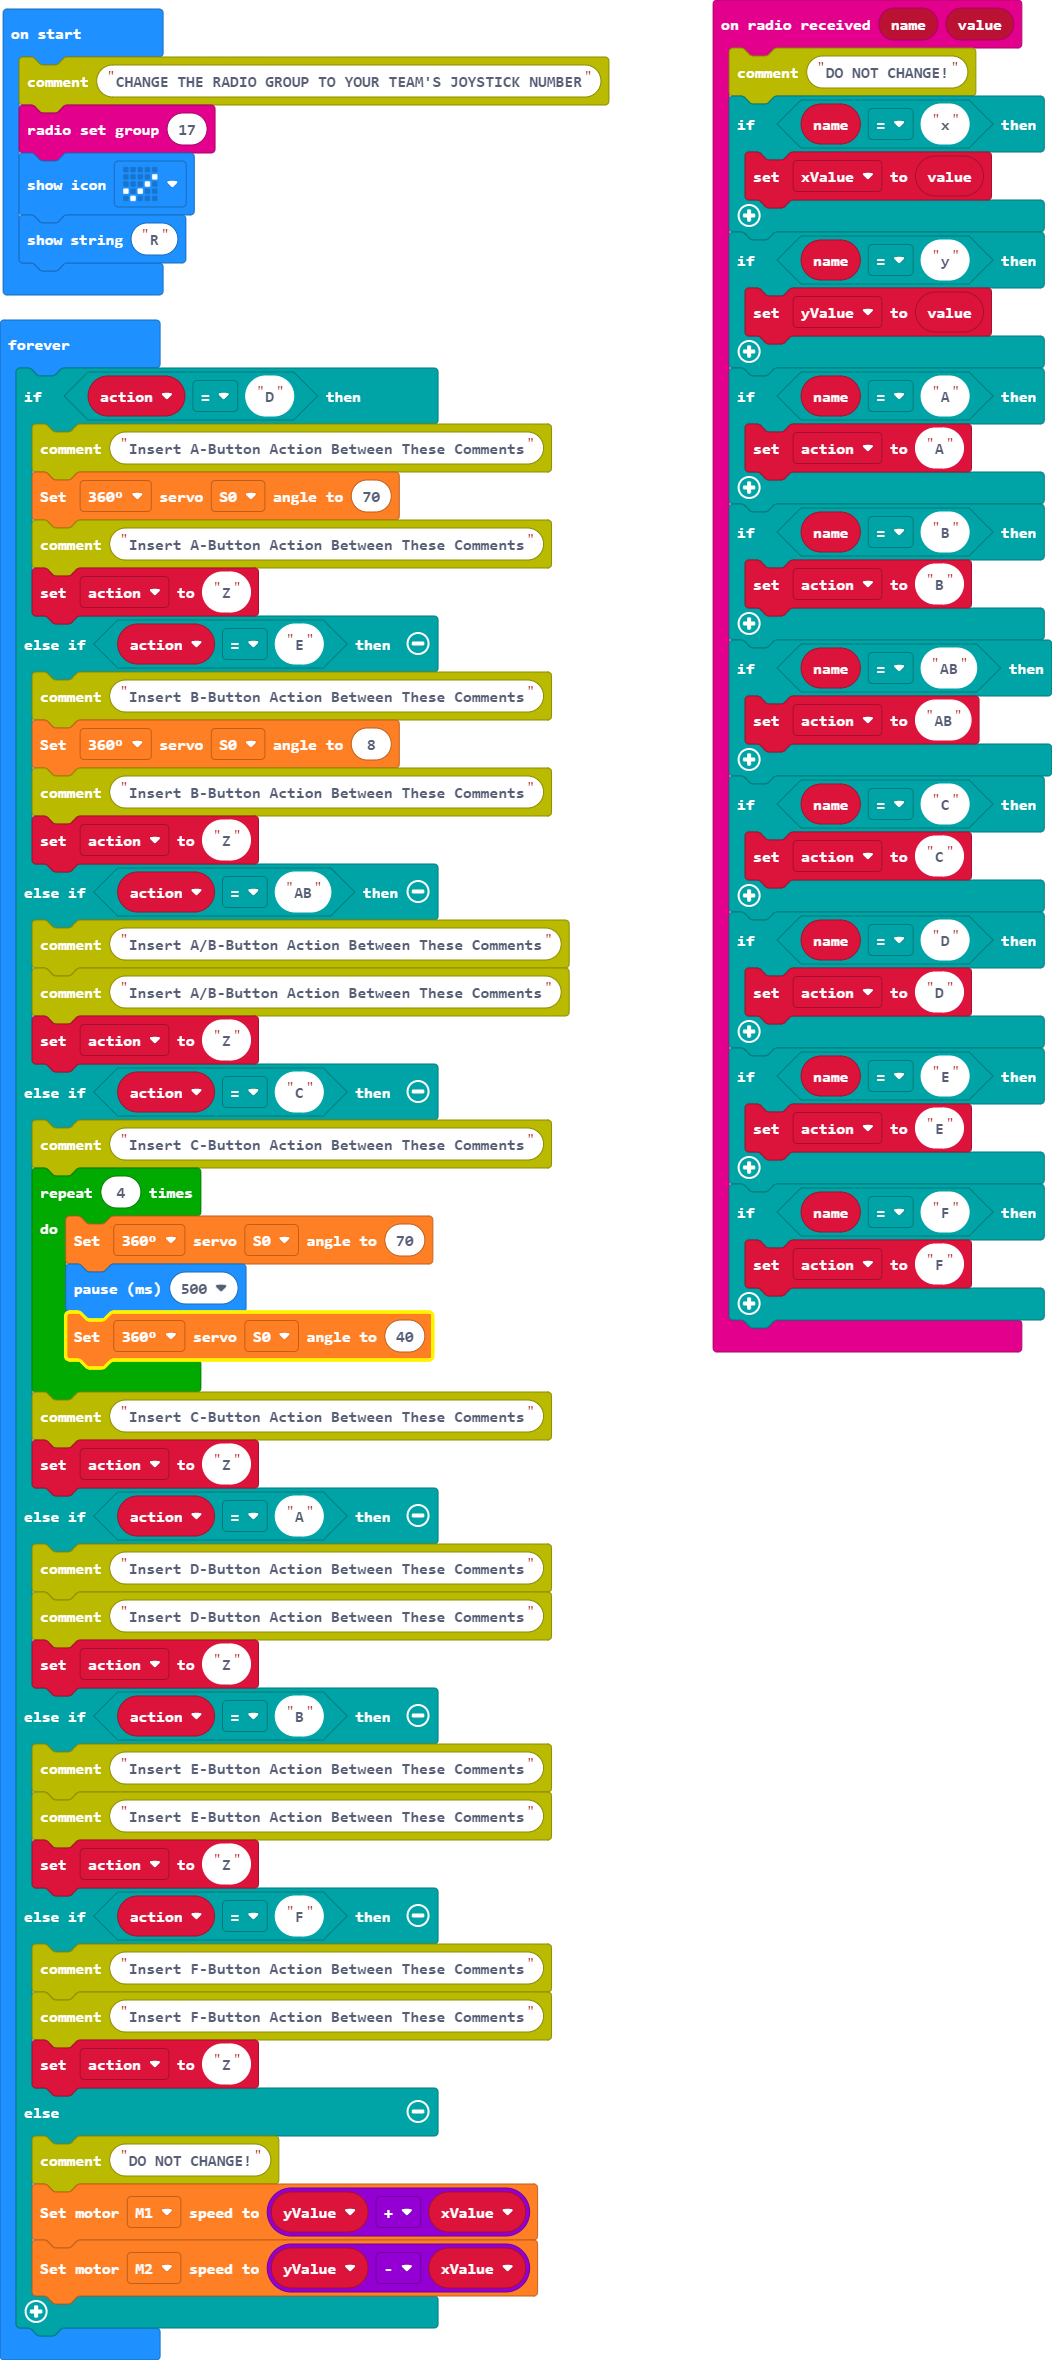
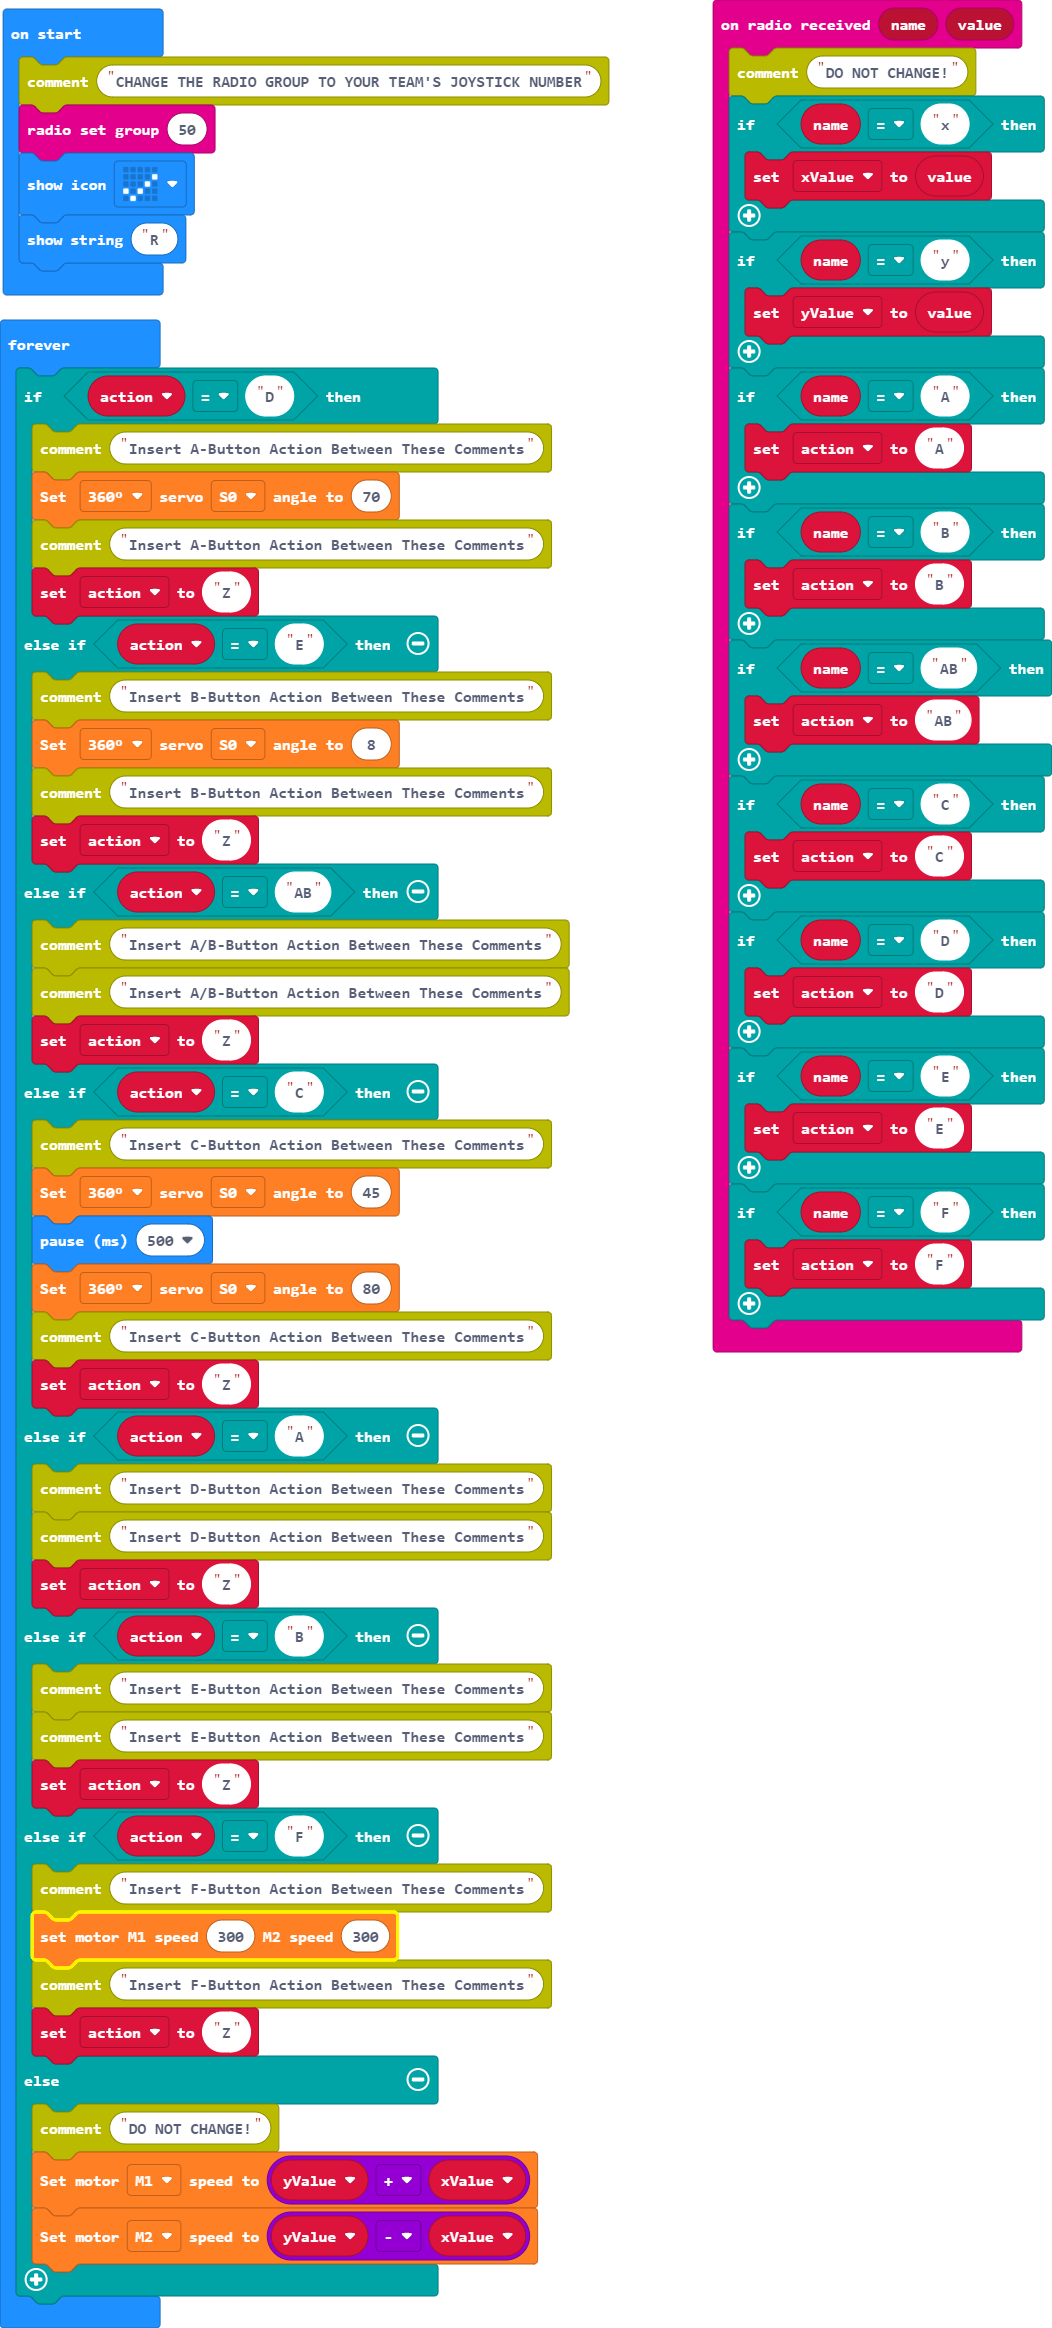
Update main.blocks, main.ts

Changed region(s): [[0.0, 0.0309, 0.5475, 0.9897], [0.6692, 0.0, 1.0, 0.5876]]

diff --git a/main.ts b/main.ts
@@ -32,7 +32,7 @@ let action = ""
 let yValue = 0
 let xValue = 0
 comment.comment("CHANGE THE RADIO GROUP TO YOUR TEAM'S JOYSTICK NUMBER")
-radio.setGroup(17)
+radio.setGroup(50)
 basic.showIcon(IconNames.Yes)
 basic.showString("R")
 basic.forever(function () {
@@ -52,11 +52,9 @@ basic.forever(function () {
         action = "Z"
     } else if (action == "C") {
         comment.comment("Insert C-Button Action Between These Comments")
-        for (let index = 0; index < 4; index++) {
-            wuKong.setServoAngle(wuKong.ServoTypeList._360, wuKong.ServoList.S0, 70)
-            basic.pause(500)
-            wuKong.setServoAngle(wuKong.ServoTypeList._360, wuKong.ServoList.S0, 40)
-        }
+        wuKong.setServoAngle(wuKong.ServoTypeList._360, wuKong.ServoList.S0, 45)
+        basic.pause(500)
+        wuKong.setServoAngle(wuKong.ServoTypeList._360, wuKong.ServoList.S0, 80)
         comment.comment("Insert C-Button Action Between These Comments")
         action = "Z"
     } else if (action == "A") {
@@ -69,6 +67,7 @@ basic.forever(function () {
         action = "Z"
     } else if (action == "F") {
         comment.comment("Insert F-Button Action Between These Comments")
+        wuKong.setAllMotor(300, 300)
         comment.comment("Insert F-Button Action Between These Comments")
         action = "Z"
     } else {
